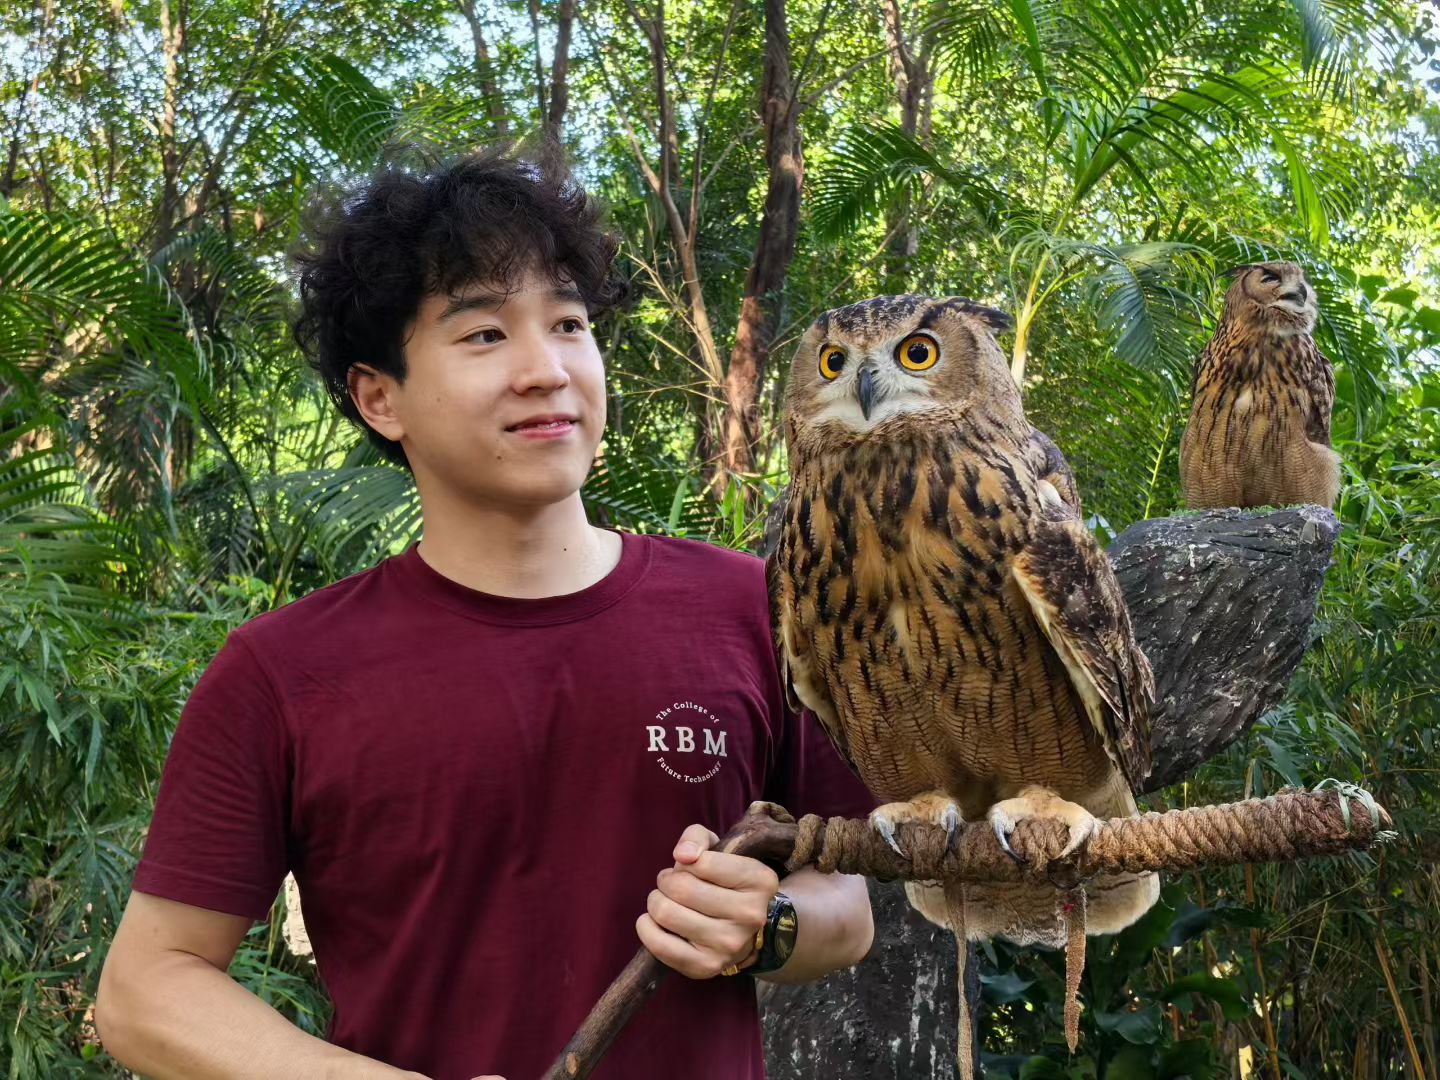
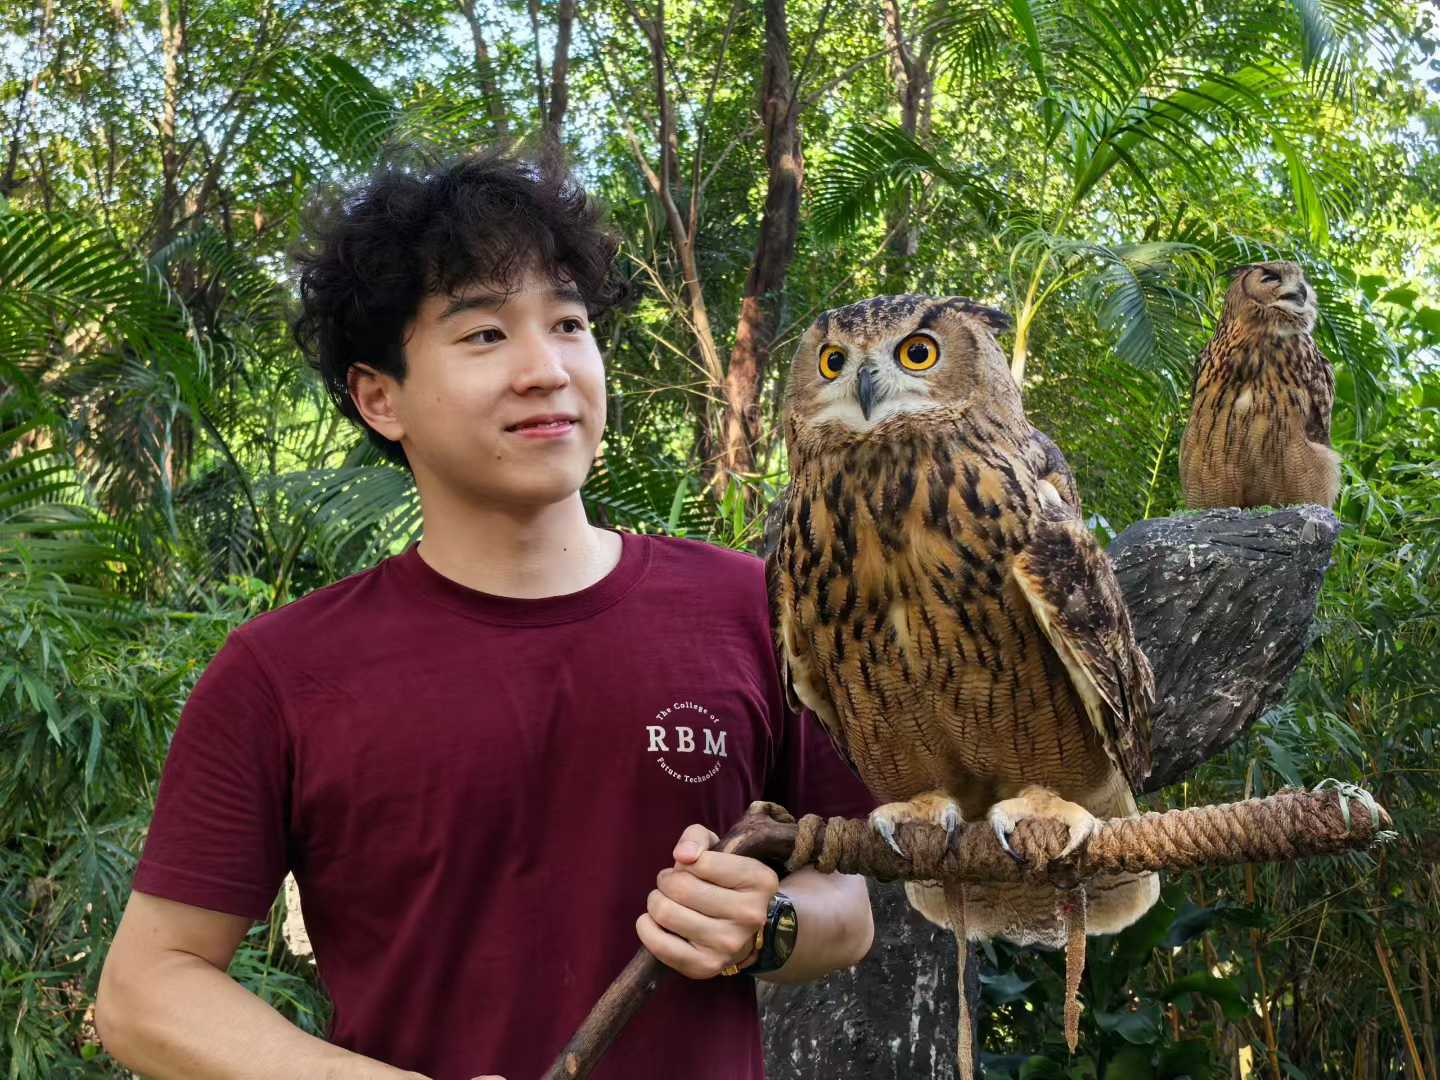
Update Ziran Yin's profile photo

diff --git a/index.html b/index.html
@@ -35,7 +35,7 @@
 <p class="team-contribution" data-en="Develops cloud–rigid body interactions, wakes, and drag." data-zh="研究云与刚体的交互、尾流和阻力。">研究云与刚体的交互、尾流和阻力。</p>
 </a>
 <a class="team-card" href="#member-4">
-<img alt="" class="avatar" height="350" src="assets/ziran.jpg" width="350"/>
+<img alt="" class="avatar" height="1080" src="assets/ziran.jpg" width="1440"/>
 <h3 data-en="Ziran Yin" data-zh="殷梓然">殷梓然</h3>
 <p class="team-role" data-en="3D Scene Generation" data-zh="三维场景生成">三维场景生成</p>
 <p class="team-contribution" data-en="Builds environments and spatial layouts from scene references." data-zh="根据场景参考构建环境与空间布局。">根据场景参考构建环境与空间布局。</p>
